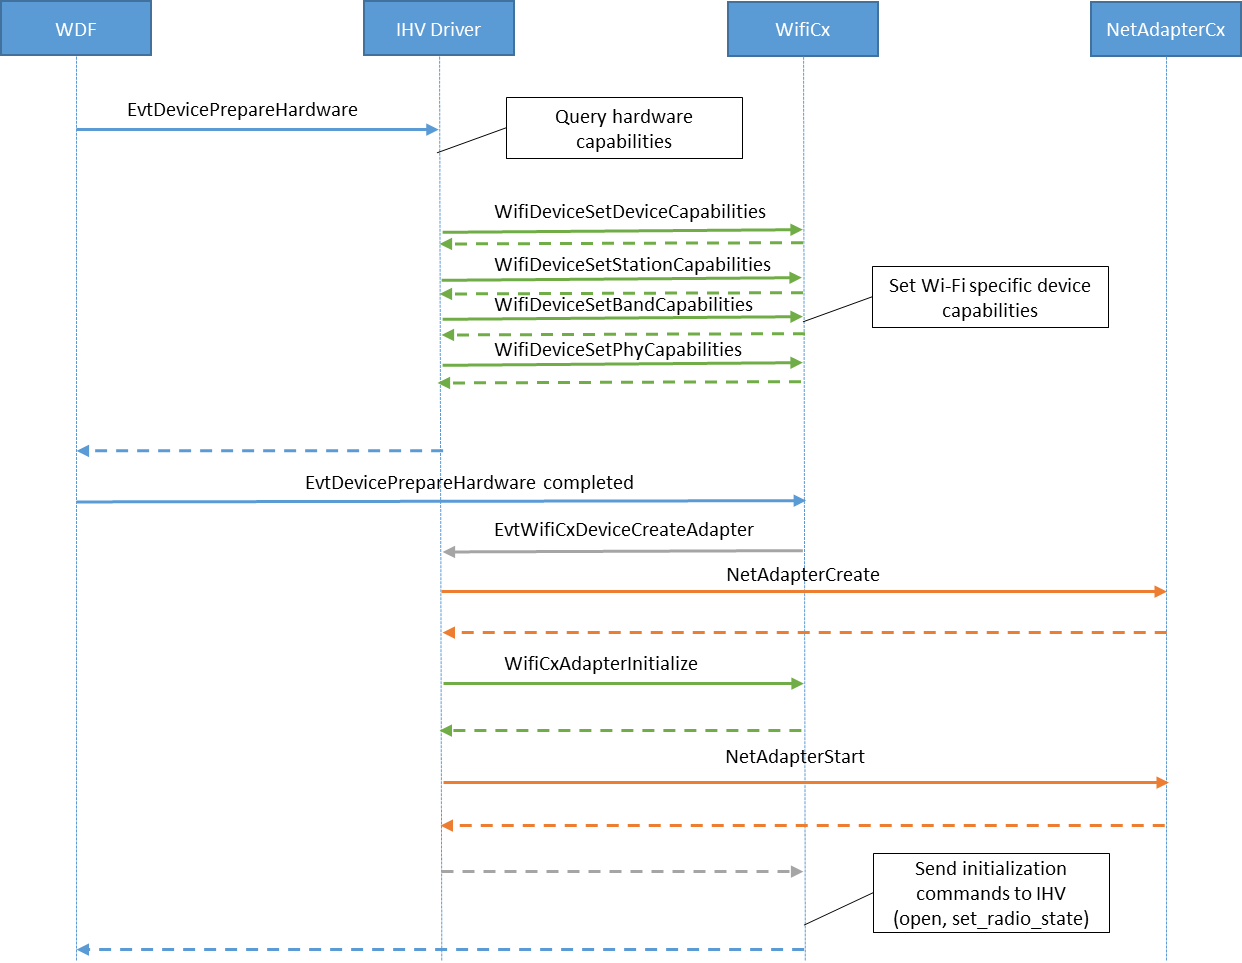
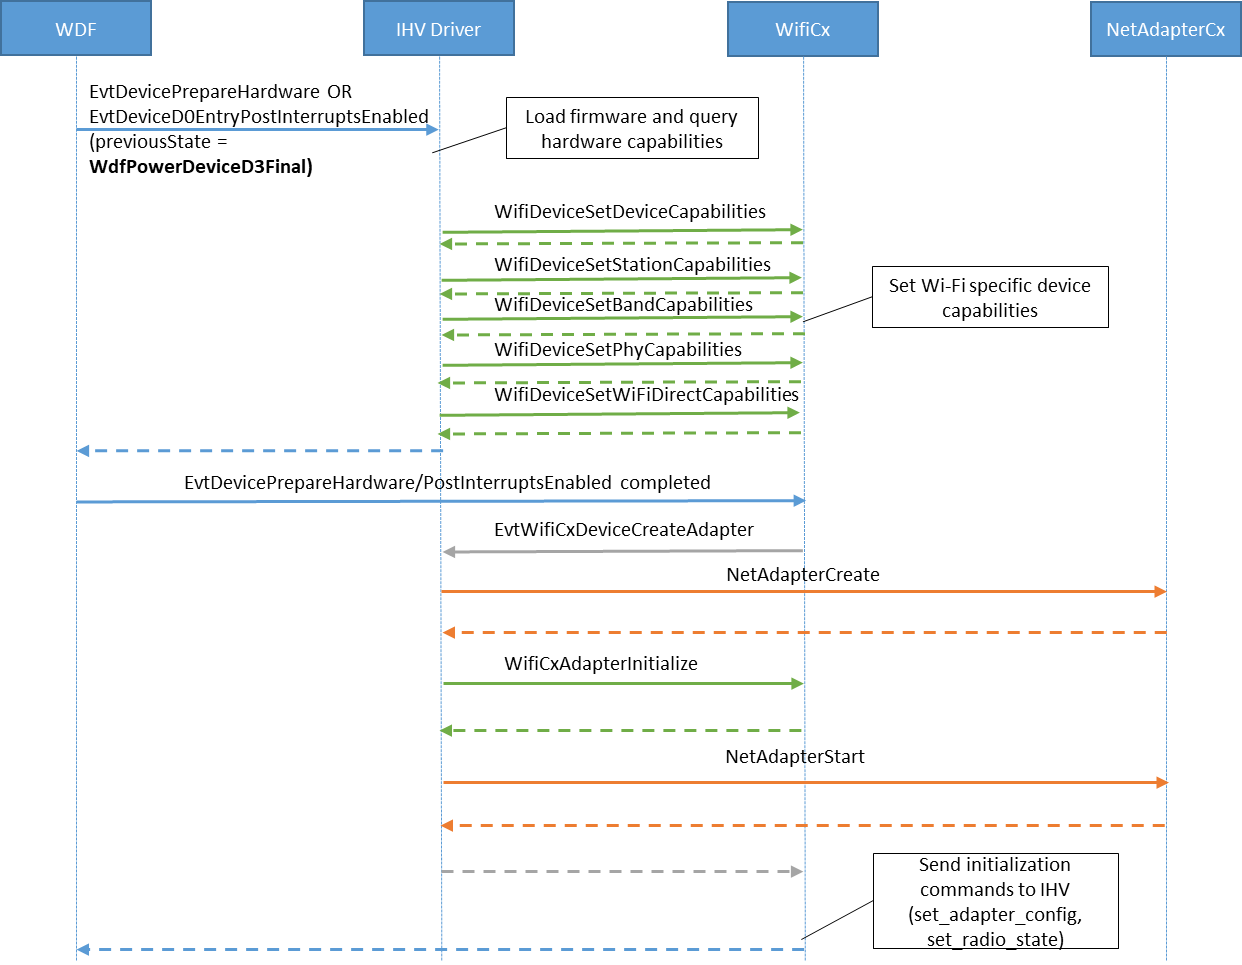
Updated STA initialization callflows

diff --git a/windows-driver-docs-pr/netcx/wifi-wdf-class-extension-wificx.md b/windows-driver-docs-pr/netcx/wifi-wdf-class-extension-wificx.md
@@ -18,7 +18,7 @@ A Wifi-NetAdapter client driver performs 3 categories of tasks based on its rela
 In addition to those tasks required by NetAdapterCx for [NetAdapter device initialization](device-and-adapter-initialization.md), a WifiCx client driver must also perform the following tasks in its [EvtDriverDeviceAdd](https://docs.microsoft.com/windows-hardware/drivers/ddi/wdfdevice/nf-wdfdevice-wdfdevicecreate) callback function:
 1.	Call  WifiDeviceInitConfig after calling NetDeviceInitConfig but before calling [WdfDeviceCreate](https://docs.microsoft.com/windows-hardware/drivers/ddi/wdfdevice/nf-wdfdevice-wdfdevicecreate), referencing the same [WDFDEVICE_INIT](https://docs.microsoft.com/en-us/windows-hardware/drivers/wdf/wdfdevice_init) object passed in by the framework.
 
-2.	Call WifiDeviceInitialize to register WifCx device-specific callback functions using an initialized WIFI_DEVICE_CONFIG structure and the WDFDEVICE object obtained from WdfDeviceCreate.
+2.	Call WifiDeviceInitialize to register WifCx device-specific callback functions using an initialized WIFI\_DEVICE\_CONFIG structure and the WDFDEVICE object obtained from WdfDeviceCreate.
 The following example demonstrates how to initialize the WifiCx device. Error handling has been left out for clarity.
 
 ```C++
@@ -45,11 +45,11 @@ This message flow diagram illustrates the initialization process.
 
 ### **Default (station) adapter creation flow**
 
-Next, the client driver must set all the WiFi specific device capabilities, typically in the [EvtDevicePrepareHardware](https://docs.microsoft.com/windows-hardware/drivers/ddi/wdfdevice/nc-wdfdevice-evt_wdf_device_prepare_hardware) callback function that follows. Note that WifiCx/WDI will no longer be querying for these capabilities via WDI_GET_ADAPTER_CAPABILITIES command. Also, unlike other types of NetAdapterCx drivers, WiFi client drivers must not create the NETADAPTER object from within the EvtDriverDeviceAdd callback function. Instead, it will be instructed by WifiCx to create the default NetAdapter (station) later using the EvtWifiCxDeviceCreateAdapter callback (after the client’s PrepareHardware WDF callback is successful). Note that WifiCx/WDI will no longer call WDI_TASK_CREATE_PORT command.
+Next, the client driver must set all the WiFi specific device capabilities, typically in the [EvtDevicePrepareHardware](https://docs.microsoft.com/windows-hardware/drivers/ddi/wdfdevice/nc-wdfdevice-evt_wdf_device_prepare_hardware) callback function that follows. If your hardware needs interrupts to be enabled in order to query firmware capabilities, this can be done in the [EvtWdfDeviceD0EntryPostInterruptsEnabled](https://docs.microsoft.com/en-us/windows-hardware/drivers/ddi/wdfdevice/nc-wdfdevice-evt_wdf_device_d0_entry_post_interrupts_enabled). Note that WifiCx will no longer be calling WDI\_TASK\_OPEN\WDI\_TASK\_CLOSE to instruct clients to load\unload firmware nor will it be querying for Wi-Fi capabilities via WDI\_GET\_ADAPTER\_CAPABILITIES command. Also, unlike other types of NetAdapterCx drivers, WiFi client drivers must not create the NETADAPTER object from within the EvtDriverDeviceAdd callback function. Instead, it will be instructed by WifiCx to create the default NetAdapter (station) later using the EvtWifiCxDeviceCreateAdapter callback (after the client’s PrepareHardware WDF callback is successful). Note that WifiCx/WDI will no longer call WDI\_TASK\_CREATE\_PORT command.
 
 In this call, the client driver needs to call into NetAdapterCx to create the new NetAdapter object and then call into WifiCx (using WifiCxAdapterInitialize API) to initialize the WiFiCx context and associate it with this NetAdapter object.
 
-If this succeeds, WifiCx will then go on to send initialization commands for the device/adapter (TASK_OPEN, SET_ADAPTER_CONFIGURATION, TASK_SET_RADIO_STATE if necessary etc).
+If this succeeds, WifiCx will then go on to send initialization commands for the device/adapter (TASK_OPEN, SET\_ADAPTER\_CONFIGURATION, TASK\_SET\_RADIO\_STATE if necessary etc).
 
 ![WiFiCx client driver station adapter creation](images/wificx_station.png)
 
@@ -57,7 +57,7 @@ If this succeeds, WifiCx will then go on to send initialization commands for the
 
 WifiCx uses WDI commands for most control path operations as defined in the WDI spec. The commands are exchanged through a set of callback functions provided by the client driver and APIs provided by WifiCx. The following function calls are used by WifiCx to replicate WDI command handling:
 - WifiCx sends a WDI command message to the client driver by invoking its EvtWifiDeviceSendCommand callback function. The client driver sends the M3 for the command asynchronously by calling WifiRequestComplete. The client driver calls API WifiRequestGetInOutBuffer to retrieve the input/output buffer and buffer lengths and WifiRequestGetMessageId to retrieve the WDI message ID of the command.
-If this was a set command and the original request did not conatin a large enough buffer, the client should call WifiRequestSetBytesNeeded to set the needed buffer size and then fail the request with status BUFFER_OVERFLOW.
+If this was a set command and the original request did not conatin a large enough buffer, the client should call WifiRequestSetBytesNeeded to set the needed buffer size and then fail the request with status BUFFER\_OVERFLOW.
 
 - If this is a task command, the client driver needs to later send the associated M4 indication by calling WifiDeviceReceiveIndication and pass the indication buffer with a WDI header that contains the same transaction ID as in the M1.
 
@@ -69,7 +69,7 @@ If this was a set command and the original request did not conatin a large enoug
 Since 2001 (Drop 2) the Wi-Fi Direct Miracast scenario will be supported. To enable Miracast, the client driver must implement the following sections.
 ### Wi-Fi Direct Device Capabilities
 
-WIFI_WIFIDIRECT_CAPABILITIES is an new introduced structure merged from the WDI_P2P_CAPABILITIES and WDI_AP_CAPABILITIES. The client driver need to call WifiDeviceSetWiFiDirectCapabilities API for updating WifiCx in the set device capabilities phase.
+WIFI\_WIFIDIRECT\_CAPABILITIES is an new introduced structure merged from the WDI\_P2P\_CAPABILITIES and WDI\_AP\_CAPABILITIES. The client driver need to call WifiDeviceSetWiFiDirectCapabilities API for updating WifiCx in the set device capabilities phase.
 ```C++
 WIFI_WIFIDIRECT_CAPABILITIES wfdCapabilities = {};
 
